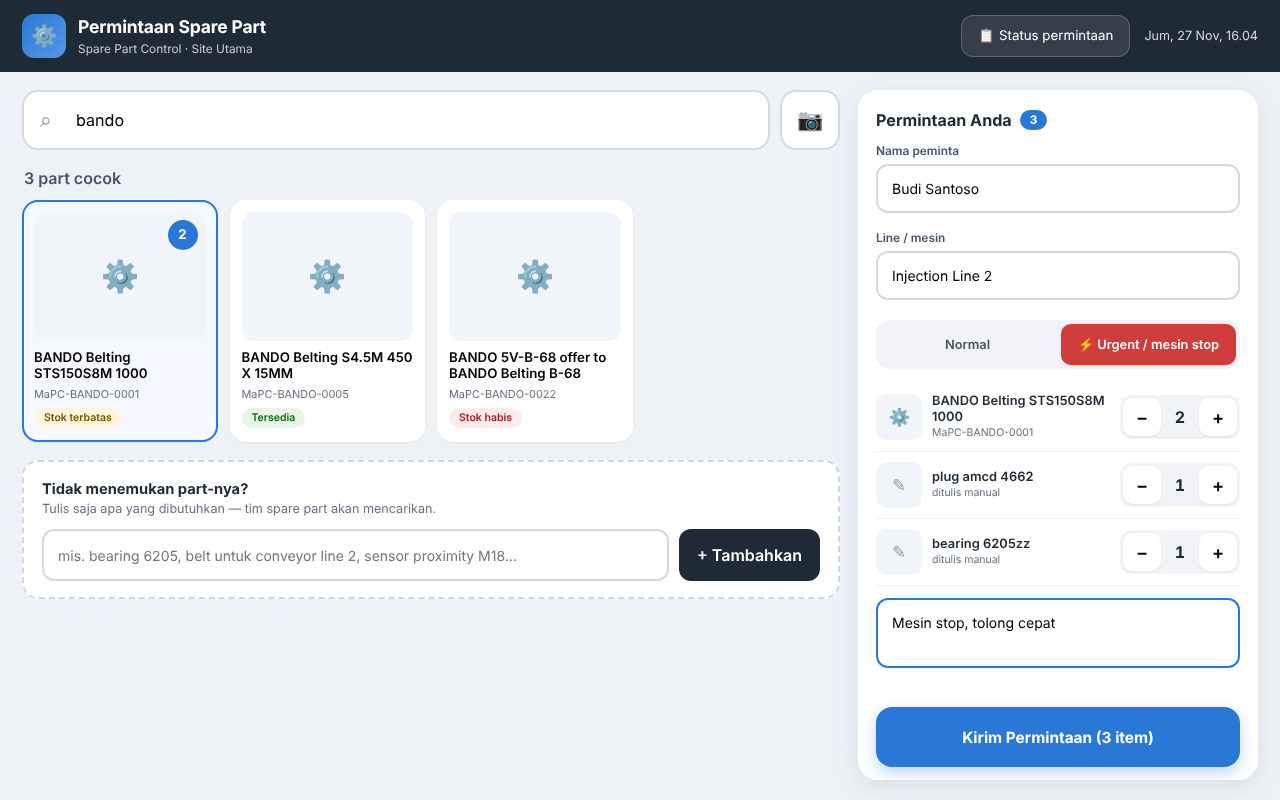
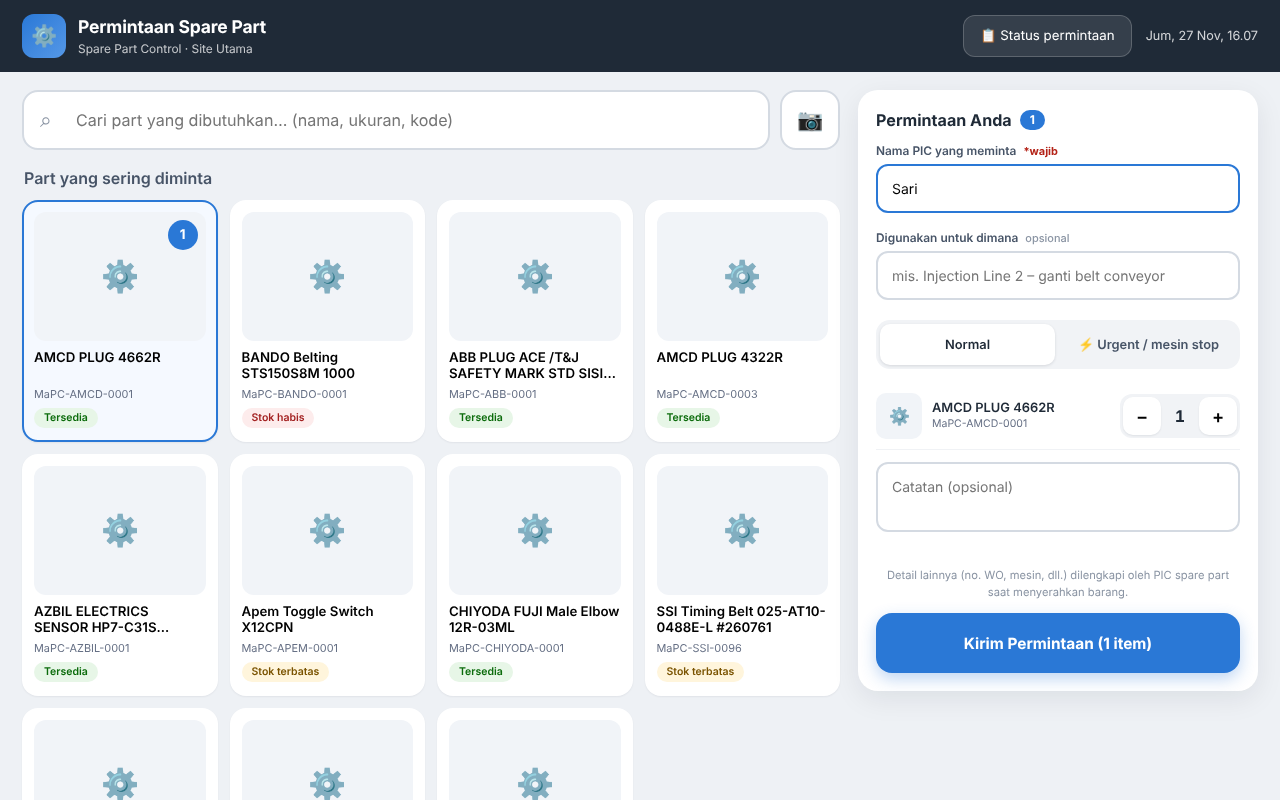
Permintaan tablet: PIC peminta wajib, "digunakan untuk" opsional
- Form tablet: "Nama PIC yang meminta" (wajib) dan "Digunakan untuk dimana" (opsional)
- Form Issued dari permintaan: PIC & keperluan terisi, no. WO ditandai "lengkapi" untuk PIC spare part,
  no. permintaan masuk ke catatan
- Label "untuk …" di popup, daftar permintaan dan papan status tablet

Claude-Session: https://claude.ai/code/session_019TTrZjKaXCsk54iEayP5Yt

diff --git a/wwwroot/js/requests.js b/wwwroot/js/requests.js
@@ -38,7 +38,7 @@ window.SPReq = (function () {
     function render(d) {
         current = d;
         document.getElementById('reqKicker').innerHTML = `${d.urgent ? '<span class="badge bg-danger me-1">⚡ URGENT</span>' : ''}<span class="req-st ${stCls[d.status]}">${esc(d.statusText)}</span> · ${ago(d.createdAt)}`;
-        document.getElementById('reqTitle').innerHTML = `${esc(d.requesterName)}${d.line ? ` <span class="text-muted fw-normal">· ${esc(d.line)}</span>` : ''} <span class="req-no">${esc(d.reqNo)}</span>`;
+        document.getElementById('reqTitle').innerHTML = '<span class="req-pic-label">PIC peminta</span> ' + `${esc(d.requesterName)}${d.line ? ` <span class="text-muted fw-normal">· untuk ${esc(d.line)}</span>` : ''} <span class="req-no">${esc(d.reqNo)}</span>`;
         const lines = d.lines.map(l => {
             if (l.part) return `<div class="rq-line">${partRow(l.part, l.qty)}</div>`;
             const head = `<div class="rq-free"><span class="rq-quote">“${esc(l.freeText)}”</span><span class="rq-qty-inline">× ${fmt(l.qty)}</span></div>`;
@@ -121,7 +121,7 @@ window.SPReq = (function () {
         const newest = fresh[0];
         const played = SPSound.play('message');
         if ('Notification' in window && Notification.permission === 'granted' && document.hidden) {
-            try { new Notification('Permintaan part ' + newest.reqNo, { body: `${newest.requesterName}${newest.line ? ' · ' + newest.line : ''} · ${newest.items} item` }); } catch (e) { }
+            try { new Notification('Permintaan part ' + newest.reqNo, { body: `${newest.requesterName}${newest.line ? ' · untuk ' + newest.line : ''} · ${newest.items} item` }); } catch (e) { }
         }
         if (!played && !SPSound.isUnlocked()) toast('🔔 Klik di mana saja untuk mengaktifkan suara notifikasi.');
         if (fresh.length > 1) toast(`📥 ${fresh.length} permintaan baru — <a href="/Requests">lihat semua</a>`);

diff --git a/wwwroot/css/kiosk.css b/wwwroot/css/kiosk.css
@@ -115,3 +115,6 @@ textarea.kz-input { margin-top: 12px; resize: none; }
 }
 .kz-toast { visibility: hidden; opacity: 0; transition: transform .3s, opacity .3s, visibility .3s; }
 .kz-toast.show { visibility: visible; opacity: 1; }
+.kz-req { color: #b42318; font-weight: 700; font-size: .78rem; margin-left: 4px; }
+.kz-opt { color: #8a94a3; font-weight: 500; font-size: .78rem; margin-left: 4px; }
+.kz-note { font-size: .8rem; color: #8a94a3; text-align: center; margin: 2px 0 6px; }

diff --git a/wwwroot/css/site.css b/wwwroot/css/site.css
@@ -278,3 +278,4 @@ body { background: #f5f6f8; color: var(--app-ink); }
 .app-nav .nav-link { white-space: nowrap; }
 .req-toast { visibility: hidden; opacity: 0; transition: transform .3s, opacity .3s, visibility .3s; }
 .req-toast.show { visibility: visible; opacity: 1; }
+.req-pic-label { display: block; font-size: .72rem; font-weight: 600; color: #667085; text-transform: uppercase; letter-spacing: .04em; }

diff --git a/Pages/Entry.cshtml.cs b/Pages/Entry.cshtml.cs
@@ -63,7 +63,9 @@ public class EntryModel : PageModel
         if (Request != null && EntryMode == EntryMode.Issue)
         {
             // Isi otomatis dari permintaan: PIC = peminta, line, referensi = no. permintaan.
-            Header.Pic = Request.RequesterName; Header.Department = Request.Line; Header.Reference = Request.ReqNo; Header.Notes = Request.Notes;
+            // PIC peminta & "digunakan untuk" dari tablet; no. WO dll. dilengkapi PIC spare part.
+            Header.Pic = Request.RequesterName; Header.Department = Request.Line;
+            Header.Notes = string.Join(" · ", new[] { "Permintaan " + Request.ReqNo, Request.Notes }.Where(x => !string.IsNullOrWhiteSpace(x)));
             lines.AddRange(Request.Lines.Where(l => l.PartId.HasValue).Select(l => new EntryLine { PartId = l.PartId!.Value, Qty = l.Qty }));
         }
         await LoadAsync(lines);

diff --git a/Services/RequestService.cs b/Services/RequestService.cs
@@ -42,7 +42,7 @@ public class RequestService
         var site = _site.Current;
         if (site == null) return (null, "Tablet belum terhubung ke satu site. Hubungi admin.");
         var name = (r.Name ?? "").Trim();
-        if (name.Length == 0) return (null, "Nama peminta wajib diisi.");
+        if (name.Length == 0) return (null, "Nama PIC yang meminta wajib diisi.");
         var items = r.Items.Where(i => i.Qty > 0 && (i.PartId.HasValue || !string.IsNullOrWhiteSpace(i.Text))).Take(30).ToList();
         if (items.Count == 0) return (null, "Tambahkan minimal satu part.");
         if (items.Any(i => i.Qty > 9999)) return (null, "Qty terlalu besar.");

diff --git a/README.md b/README.md
@@ -48,7 +48,7 @@ Semua halaman wajib login. Akun awal dibuat otomatis saat database pertama kali 
 
 Untuk ruang sparepart yang terpisah dari ruang produksi / maintenance:
 
-- **Tablet di ruang produksi** login dengan akun berperan **Peminta (tablet)** (dibuat di menu User, tetap login 30 hari) dan langsung terbuka di halaman **/Request**: layar sentuh dengan katalog part (foto, nama, status *Tersedia / Stok terbatas / Stok habis*, tanpa harga), scan QR, dan kolom *"Tidak menemukan part-nya? Tulis saja"*. Isi nama, line/mesin, urgensi → **Kirim**. Tombol **Status permintaan** menampilkan proses (Menunggu → Sedang disiapkan → Siap diambil → Selesai / Ditolak) dan tablet berbunyi saat permintaan siap diambil.
+- **Tablet di ruang produksi** login dengan akun berperan **Peminta (tablet)** (dibuat di menu User, tetap login 30 hari) dan langsung terbuka di halaman **/Request**: layar sentuh dengan katalog part (foto, nama, status *Tersedia / Stok terbatas / Stok habis*, tanpa harga), scan QR, dan kolom *"Tidak menemukan part-nya? Tulis saja"*. Isi **nama PIC yang meminta (wajib)** dan **digunakan untuk dimana (opsional)**, pilih urgensi → **Kirim**. Detail lain (no. WO, dll.) dilengkapi PIC spare part di form Issued. Tombol **Status permintaan** menampilkan proses (Menunggu → Sedang disiapkan → Siap diambil → Selesai / Ditolak) dan tablet berbunyi saat permintaan siap diambil.
 - **PC ruang sparepart (admin)** mengecek permintaan baru setiap 5 detik: **bunyi notifikasi** (nada "pesan masuk" yang disintesis di browser), badge di menu **Permintaan**, judul tab berkedip, dan **popup** permintaan. Part dari katalog langsung tampil dengan stok, rack dan tombol Location; permintaan berupa teks otomatis dicocokkan ke katalog (termasuk istilah Indonesia → Inggris, mis. *oli → oil, sabuk → belt*) dan ditampilkan sebagai pilihan — bila tidak ada yang cocok, hanya teks permintaannya yang tampil dengan tombol **Cari manual**.
 - Tombol di popup: **Proses**, **Siap diambil**, **Tolak** (alasan tampil di tablet), **Buat Issued** (form Issued terisi otomatis: PIC, line, no. permintaan, part; setelah disimpan permintaan otomatis *Selesai*).
 - Browser baru mengizinkan suara setelah ada satu klik di halaman; klik **🔔 Suara aktif — tes** di halaman Permintaan untuk memastikan. Notifikasi desktop Windows juga muncul bila browser diizinkan (perlu HTTPS atau localhost).
